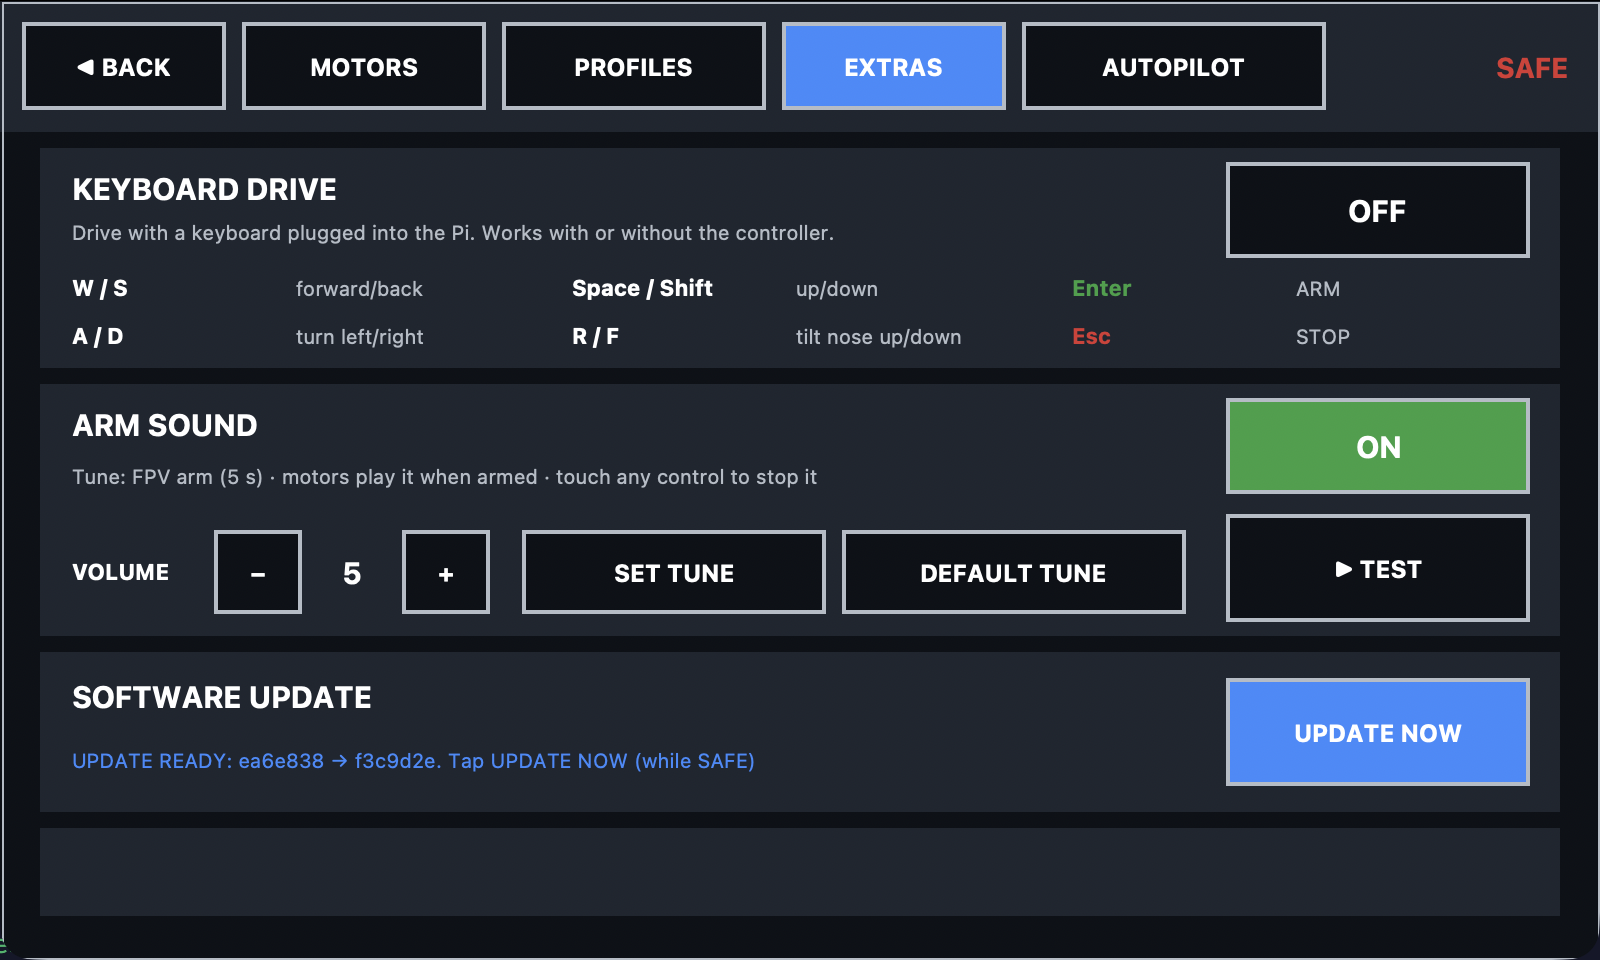
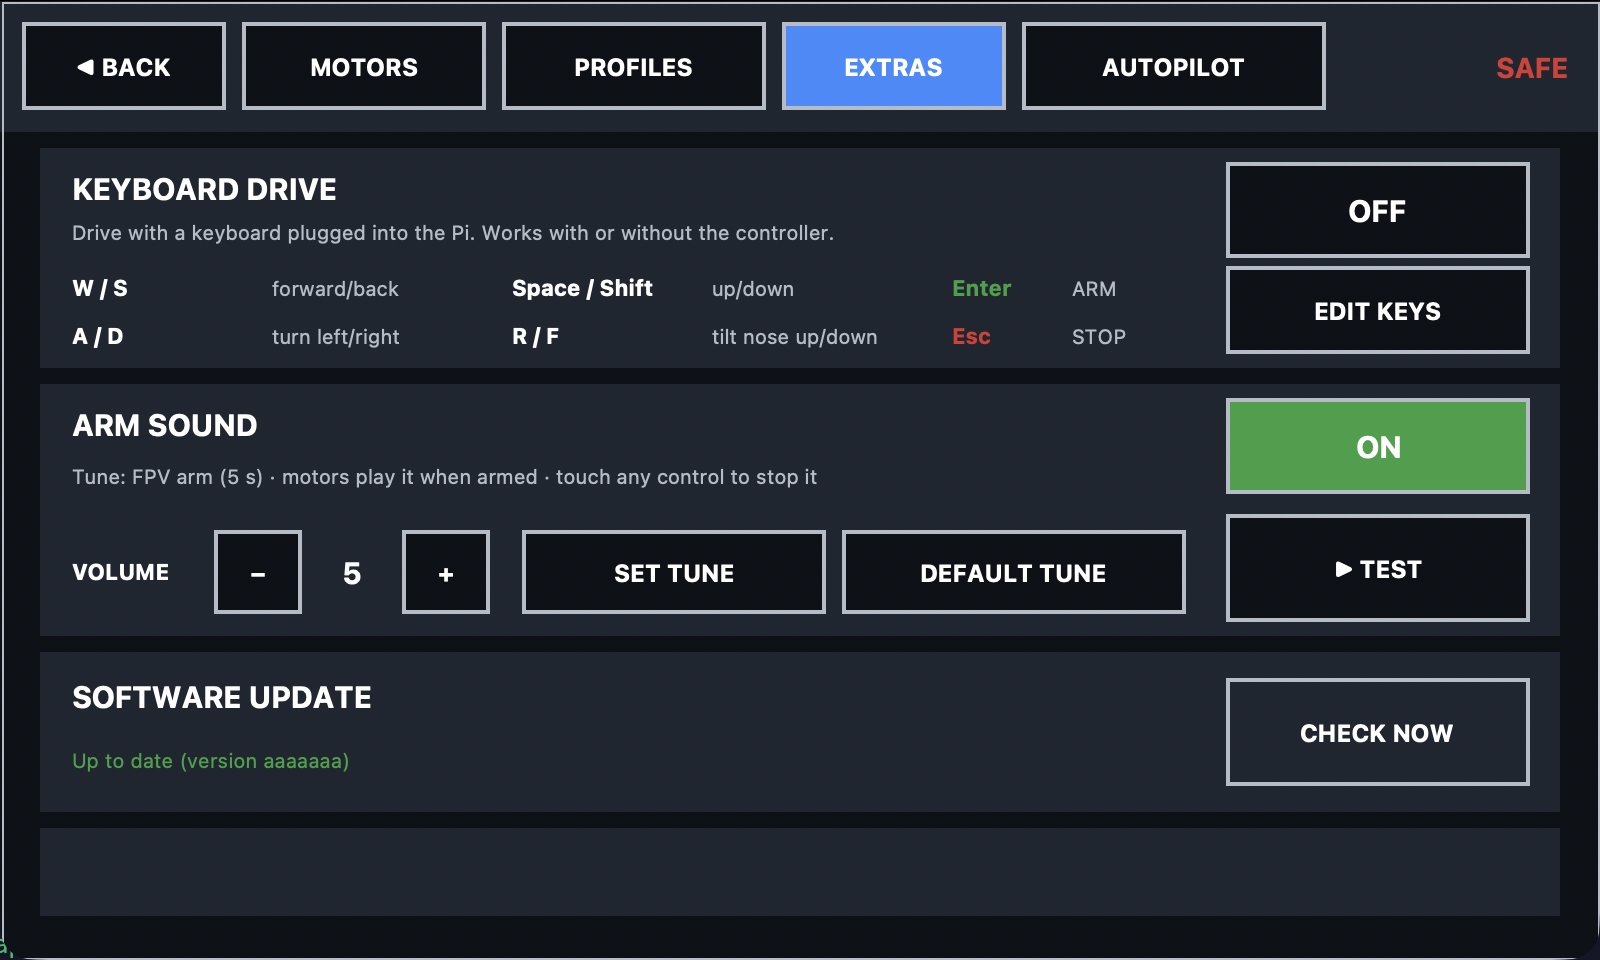
Keyboard drive profile: EDIT KEYS page
SETUP > EXTRAS > EDIT KEYS: tap an action, press a key (SAFE only); used keys
swap; WASD / ARROWS presets; speed keys. Saved in keymap.json (kept by updates).
Enter = ARM and Esc = STOP stay fixed.

diff --git a/rov_gui.py b/rov_gui.py
@@ -29,7 +29,22 @@ STATUS = "/dev/shm/rov-status.json"
 CMD = "/dev/shm/rov-cmd"
 KEYS = "/dev/shm/rov-keys.json"
 VISION = "/dev/shm/rov-vision.json"
-KB_KEYS = {"w", "a", "s", "d", "r", "f", "space", "shift"}
+KEY_NAMES = {"space": "Space", "shift": "Shift", "ctrl": "Ctrl", "alt": "Alt", "up": "↑", "down": "↓", "left": "←",
+             "right": "→", "prior": "PgUp", "next": "PgDn", "equal": "=", "minus": "−", "plus": "+", "comma": ",",
+             "period": ".", "slash": "/", "semicolon": ";", "apostrophe": "'", "bracketleft": "[",
+             "bracketright": "]", "backslash": "\\", "grave": "`", "tab": "Tab", "backspace": "Bksp", "home": "Home",
+             "end": "End", "insert": "Ins", "delete": "Del", "caps_lock": "Caps", "super": "Win"}
+
+
+def key_label(k):
+    """Tk key name -> what's printed on the key."""
+    if not k:
+        return "—"
+    return KEY_NAMES.get(k, k.upper() if len(k) == 1 else k.replace("kp_", "Num ").title())
+
+
+def keymap_path():
+    return os.path.join(core.HERE, "keymap.json")
 W, H = 800, 480
 # Safe area: this monitor crops the edges of the HDMI picture. Increase these if
 # anything is still cut off (left, top, right, bottom, in pixels). Or run with
@@ -294,6 +309,9 @@ class Dashboard:
         self.kb_on = False          # KEYBOARD DRIVE switch (comes from rov.py status)
         self.kb_down = set()
         self.kb_jobs = {}
+        self.keymap = core.load_keymap(keymap_path())     # keyboard drive profile: action -> key
+        self.kb_keys = set(core.key_axes(self.keymap))
+        self.key_listen = None                           # action waiting for "press a key" (keys page)
         self.page = "main"
         self.last_view_toggle = None
         self.cam = CameraFeed()
@@ -381,6 +399,7 @@ class Dashboard:
         self.build_extras()
         self.build_autopilot()
         self.build_mission()
+        self.build_keys()
         self.build_camera()
         self.update()
         self.refresh_video()
@@ -400,7 +419,10 @@ class Dashboard:
     @staticmethod
     def kb_name(event):
         k = event.keysym.lower()
-        return "shift" if k in ("shift_l", "shift_r") else k
+        for side in ("_l", "_r"):
+            if k.endswith(side) and k[:-2] in ("shift", "control", "alt", "super", "meta"):
+                k = k[:-2]
+        return {"control": "ctrl"}.get(k, k)
 
     def typing(self):
         try:
@@ -414,18 +436,28 @@ class Dashboard:
             self.press("stop")
             if self.typing():
                 self.root.focus_set()
+            if self.key_listen:
+                self.key_listen = None
+                self.keys_render()
+            return
+        if self.key_listen:        # keys page: this key becomes the new key for that action
+            self.key_bind(k)
             return
         if self.typing():
             return
         if k == "f11":
             self.root.attributes("-fullscreen", not self.root.attributes("-fullscreen"))
-        elif self.kb_on and k in KB_KEYS:
+        elif self.kb_on and k in self.kb_keys:
             job = self.kb_jobs.pop(k, None)
             if job:
                 self.root.after_cancel(job)
             self.kb_down.add(k)
         elif self.kb_on and k in ("return", "kp_enter"):
             send("kbd_arm")
+        elif self.kb_on and k == self.keymap.get("speed_up"):
+            self.press("speed+")
+        elif self.kb_on and k == self.keymap.get("speed_down"):
+            self.press("speed-")
         elif k == "space":
             self.press("stop")
         elif k in ("plus", "equal", "kp_add"):
@@ -563,7 +595,8 @@ class Dashboard:
             self.ed_load()
         self.root.focus_set()
         for name, canvas in (("main", self.c), ("setup", self.c2), ("camera", self.c3), ("profiles", self.c4),
-                             ("extras", self.c5), ("autopilot", self.c6), ("mission", self.c7)):
+                             ("extras", self.c5), ("autopilot", self.c6), ("mission", self.c7),
+                             ("keys", self.c8)):
             if name == page:
                 canvas.pack(expand=True)
             else:
@@ -613,13 +646,18 @@ class Dashboard:
         c.create_text(36, 94, anchor="w", text="KEYBOARD DRIVE", font=fnt(15, "bold"), fill=FG)
         c.create_text(36, 116, anchor="w", font=fnt(10), fill=DIM,
                       text="Drive with a keyboard plugged into the Pi. Works with or without the controller.")
-        for i, (keys, what) in enumerate((("W / S", "forward/back"), ("A / D", "turn left/right"),
-                                          ("Space / Shift", "up/down"), ("R / F", "tilt nose up/down"),
-                                          ("Enter", "ARM"), ("Esc", "STOP"))):
-            x, y = 36 + (i // 2) * 250, 144 + (i % 2) * 24
-            c.create_text(x, y, anchor="w", text=keys, font=fnt(11, "bold"),
-                          fill=RED if keys == "Esc" else GREEN if keys == "Enter" else FG)
-            c.create_text(x + 112, y, anchor="w", text=what, font=fnt(10), fill=DIM)
+        self.kb_legend = []
+        for i, (pair, what) in enumerate(((("forward", "back"), "forward/back"), (("left", "right"), "turn left/right"),
+                                          (("up", "down"), "up/down"), (("tilt_up", "tilt_down"), "tilt nose up/down"),
+                                          (None, "ARM"), (None, "STOP"))):
+            x, y = 36 + (i // 2) * 220, 144 + (i % 2) * 24
+            fixed = {"ARM": "Enter", "STOP": "Esc"}.get(what)
+            kt = c.create_text(x, y, anchor="w", text=fixed or "", font=fnt(11, "bold"),
+                               fill=RED if fixed == "Esc" else GREEN if fixed == "Enter" else FG)
+            c.create_text(x + (60 if fixed else 100), y, anchor="w", text=what, font=fnt(10), fill=DIM)
+            if pair:
+                self.kb_legend.append((kt, pair))
+        self.small_button(c, 614, 134, 764, 176, "EDIT KEYS", self.show_keys, tag="ex_keys")
         self.kb_toggle = self.toggle(c, 614, 82, "ex_kb", lambda: send(f"keyboard:{0 if self.kb_on else 1}"))
 
         c.create_rectangle(20, 192, 780, 318, fill=PANEL, width=0)
@@ -736,6 +774,9 @@ class Dashboard:
             c.itemconfig(rect, fill=GREEN if on else BG)
             c.itemconfig(txt, text="ON" if on else "OFF")
         c.itemconfig(self.ex_vol, text=str(self.snd_vol))
+        for kt, (a1, a2) in self.kb_legend:
+            c.itemconfig(kt, text=f"{key_label(self.keymap.get(a1))} / {key_label(self.keymap.get(a2))}")
+        self.update_keys(st)
         self.button_text(c, "ex_test", "■ STOP SOUND" if self.snd_playing else "▶ TEST")
         name = st.get("tune_name")
         c.itemconfig(self.ex_tune, text=(f"Tune: {name} ({st.get('tune_secs', 0):.0f} s"
@@ -981,6 +1022,115 @@ class Dashboard:
     # ------------------------------------------------------------ autopilot page (mouse only)
     def show_autopilot(self):
         self.show_page("autopilot")
+
+    # ------------------------------------------------------------ keyboard keys page (keyboard drive profile)
+    def show_keys(self):
+        self.key_listen = None
+        self.keys_render()
+        self.show_page("keys")
+
+    def build_keys(self):
+        c = self.c8 = tk.Canvas(self.root, width=W, height=H, bg=BG, highlightthickness=0)
+        c.create_rectangle(0, 0, W, 66, fill=PANEL, width=0)
+        self.small_button(c, 12, 12, 112, 54, "◀ BACK", self.show_extras, tag="keys_back")
+        c.create_text(130, 33, anchor="w", text="KEYBOARD KEYS", font=fnt(17, "bold"), fill=FG)
+        self.keys_state = c.create_text(785, 33, anchor="e", text="", font=fnt(14, "bold"), fill=FG)
+        c.create_text(24, 86, anchor="w", font=fnt(11), fill=DIM,
+                      text="Tap a box, then press the key you want. Enter = ARM and Esc = STOP are fixed.")
+        self.key_boxes = {}
+        for i, (a, label, *_r) in enumerate(core.KEY_ACTIONS):
+            x0, y = 20 + (i % 2) * 390, 102 + (i // 2) * 54
+            c.create_rectangle(x0, y, x0 + 370, y + 46, fill=PANEL, width=0)
+            c.create_text(x0 + 16, y + 23, anchor="w", text=label, font=fnt(13, "bold"), fill=FG)
+            tag = f"key_{a}"
+            rect = c.create_rectangle(x0 + 196, y + 6, x0 + 360, y + 40, fill=BG, outline=DIM, width=2, tags=tag)
+            txt = c.create_text(x0 + 278, y + 23, text="", font=fnt(13, "bold"), fill=FG, tags=tag)
+            c.tag_bind(tag, "<Button-1>", lambda e, a=a: self.key_click(a))
+            self.key_boxes[a] = (rect, txt)
+        c.create_text(24, 398, anchor="w", text="PRESETS", font=fnt(11, "bold"), fill=DIM)
+        for x0, name in ((110, "WASD"), (250, "ARROWS")):
+            self.small_button(c, x0, 376, x0 + 130, 420, name, lambda n=name: self.key_preset(n), tag=f"kp_{name}")
+        c.create_rectangle(20, 428, 780, 470, fill=PANEL, width=0)
+        self.keys_msg = c.create_text(34, 449, anchor="w", text="", font=fnt(12), fill=FG)
+        c.create_rectangle(1, 1, W - 1, H - 1, outline=DIM, width=1)
+        c.scale("all", 0, 0, SX, SY)
+        c.move("all", MARGINS[0], MARGINS[1])
+        self.keys_note, self.keys_note_until = "", 0.0
+
+    def keys_say(self, text, secs=5):
+        self.keys_note, self.keys_note_until = text, time.monotonic() + secs
+
+    def keys_render(self):
+        if not hasattr(self, "key_boxes"):
+            return
+        for a, (rect, txt) in self.key_boxes.items():
+            listening = a == self.key_listen
+            self.c8.itemconfig(rect, fill=AMBER if listening else BG)
+            self.c8.itemconfig(txt, text="PRESS A KEY…" if listening else key_label(self.keymap.get(a)),
+                               fill=BG if listening else FG)
+
+    def key_click(self, action):
+        if self.armed:
+            self.keys_say("Press STOP first: keys can only be changed while SAFE")
+            return
+        self.key_listen = None if self.key_listen == action else action
+        self.root.focus_set()
+        self.keys_render()
+        if self.key_listen:
+            self.keys_say("Press the new key (Esc = cancel)", 30)
+
+    def key_bind(self, k):
+        action, self.key_listen = self.key_listen, None
+        if k in core.FIXED_KEYS:
+            self.keys_say(f"{key_label(k) if k != 'f11' else 'F11'} is fixed (ARM / STOP / full screen): pick another key")
+        else:
+            old = self.keymap.get(action)
+            for other, key in self.keymap.items():      # key already used: the two actions swap keys
+                if key == k and other != action:
+                    self.keymap[other] = old
+                    self.keys_say(f"{key_label(k)} was used for something else: swapped")
+                    break
+            else:
+                self.keys_say(f"{dict((x[0], x[1]) for x in core.KEY_ACTIONS)[action]} = {key_label(k)}  (saved)")
+            self.keymap[action] = k
+            self.keys_save()
+        self.keys_render()
+
+    def key_preset(self, name):
+        if self.armed:
+            self.keys_say("Press STOP first: keys can only be changed while SAFE")
+            return
+        self.key_listen = None
+        self.keymap = dict(core.KEY_PRESETS[name])
+        self.keys_save()
+        self.keys_render()
+        self.keys_say(f"{name} keys (saved)")
+
+    def keys_save(self):
+        self.kb_release_all()
+        self.kb_keys = set(core.key_axes(self.keymap))
+        try:
+            with open(keymap_path() + ".tmp", "w") as f:
+                json.dump(self.keymap, f, indent=1)
+            os.replace(keymap_path() + ".tmp", keymap_path())
+        except OSError as ex:
+            self.keys_say(f"Could not save: {ex.strerror or ex}")
+            return
+        send("reload_keys")
+
+    def update_keys(self, st):
+        c = self.c8
+        if st is None:
+            c.itemconfig(self.keys_state, text="OFFLINE", fill=AMBER)
+        else:
+            c.itemconfig(self.keys_state, text="ARMED" if st["armed"] else "SAFE",
+                         fill=GREEN if st["armed"] else RED)
+        if self.key_listen and self.armed:
+            self.key_listen = None
+            self.keys_render()
+        note = self.keys_note if time.monotonic() < self.keys_note_until else ""
+        c.itemconfig(self.keys_msg, text=short(note or ("Keyboard drive is OFF: switch it on in SETUP › EXTRAS"
+                                                        if not self.kb_on else "")))
 
     def show_mission(self):
         self.mi_load()

diff --git a/rov.py b/rov.py
@@ -18,6 +18,7 @@ Controls (default):
 
 Keyboard drive (switch it on on the case screen: SETUP > EXTRAS):
   W/S forward/back, A/D turn, Space up, Shift down, R/F tilt, Enter ARM, Esc STOP.
+  Which key does what can be changed: SETUP > EXTRAS > EDIT KEYS (saved in keymap.json).
   The dashboard sends the keys; if it stops sending for 0.5 s the keys count as released
   (and with no controller connected the motors disarm).
 
@@ -57,9 +58,48 @@ STATUS_PATH = "/dev/shm/rov-status.json"   # read by rov_gui.py
 CMD_PATH = "/dev/shm/rov-cmd"              # written by rov_gui.py
 KEYS_PATH = "/dev/shm/rov-keys.json"       # keyboard drive: keys held down, written by rov_gui.py
 
-# Keyboard drive: key -> (motion axis, amount)
-KEY_AXES = {"w": ("surge", 1.0), "s": ("surge", -1.0), "d": ("yaw", 1.0), "a": ("yaw", -1.0),
-            "space": ("heave", 1.0), "shift": ("heave", -1.0), "r": ("pitch", 0.6), "f": ("pitch", -0.6)}
+# Keyboard drive profile: which key does what (SETUP > EXTRAS > EDIT KEYS, saved in keymap.json).
+# action, label, motion axis, amount (speed_up / speed_down are handled by the dashboard)
+KEY_ACTIONS = [("forward", "Forward", "surge", 1.0), ("back", "Back", "surge", -1.0),
+               ("left", "Turn left", "yaw", -1.0), ("right", "Turn right", "yaw", 1.0),
+               ("up", "Up", "heave", 1.0), ("down", "Down", "heave", -1.0),
+               ("tilt_up", "Tilt nose up", "pitch", 0.6), ("tilt_down", "Tilt nose down", "pitch", -0.6),
+               ("speed_up", "Speed +", None, 0), ("speed_down", "Speed −", None, 0)]
+KEY_PRESETS = {
+    "WASD": {"forward": "w", "back": "s", "left": "a", "right": "d", "up": "space", "down": "shift",
+             "tilt_up": "r", "tilt_down": "f", "speed_up": "e", "speed_down": "q"},
+    "ARROWS": {"forward": "up", "back": "down", "left": "left", "right": "right", "up": "space", "down": "ctrl",
+               "tilt_up": "prior", "tilt_down": "next", "speed_up": "equal", "speed_down": "minus"},
+}
+FIXED_KEYS = {"return", "kp_enter", "escape", "f11"}     # ARM, STOP, full screen: can't be re-used
+
+
+def load_keymap(path):
+    """keymap.json -> {action: key} (WASD for anything missing or broken)."""
+    km = dict(KEY_PRESETS["WASD"])
+    try:
+        with open(path) as f:
+            data = json.load(f)
+        if isinstance(data, dict):
+            for a, *_ in KEY_ACTIONS:
+                k = data.get(a)
+                if isinstance(k, str) and k and k not in FIXED_KEYS:
+                    km[a] = k.lower()
+    except (OSError, ValueError):
+        pass
+    return km
+
+
+def key_axes(keymap):
+    """{action: key} -> {key: (axis, amount)} for the driving keys."""
+    out = {}
+    for a, _, axis, amount in KEY_ACTIONS:
+        if axis and keymap.get(a):
+            out[keymap[a]] = (axis, amount)
+    return out
+
+
+KEY_AXES = key_axes(KEY_PRESETS["WASD"])
 
 VISION_PATH = "/dev/shm/rov-vision.json"  # camera autopilot results, written by rov_gui.py
 
@@ -750,6 +790,10 @@ class ROV:
         self.kbd_enabled = bool(c.get("keyboard_drive", False))
         self.kbd_keys = set()
         self.kbd_live = False
+        self.keymap_path = os.path.join(os.path.dirname(os.path.abspath(config_path or
+                                                                        os.path.join(HERE, "config.toml"))),
+                                        "keymap.json")
+        self.key_axes = key_axes(load_keymap(self.keymap_path))
         self.sound_on = bool(c.get("arm_sound", True))
         self.sound_volume = max(1, min(15, int(c.get("sound_volume", 5))))
         self.tune = None
@@ -965,7 +1009,7 @@ class ROV:
                 cmd[axis] += v * w
         if self.kbd_live:
             for k in self.kbd_keys:
-                axis, v = KEY_AXES[k]
+                axis, v = self.key_axes[k]
                 cmd[axis] += v
         return {ax: self.inv[ax] * max(-1.0, min(1.0, cmd[ax])) for ax in AXES}
 
@@ -984,7 +1028,7 @@ class ROV:
         if abs(time.time() - float(st.get("ts", 0))) > self.hb_timeout:
             return
         self.kbd_live = True
-        self.kbd_keys = {k for k in st.get("keys", []) if k in KEY_AXES}
+        self.kbd_keys = {k for k in st.get("keys", []) if k in self.key_axes}
 
     def set_keyboard(self, on):
         if self.armed:
@@ -1217,6 +1261,9 @@ class ROV:
         elif cmd == "kbd_arm":
             self.read_keys()
             self.arm(source="keyboard")
+        elif cmd == "reload_keys":
+            self.key_axes = key_axes(load_keymap(self.keymap_path))
+            self.say("Keyboard keys updated")
         elif cmd.startswith("keyboard:"):
             self.set_keyboard(cmd.endswith(":1"))
         elif cmd.startswith("sound:"):

diff --git a/updater.py b/updater.py
@@ -21,7 +21,7 @@ BRANCH = "main"
 HERE = os.path.dirname(os.path.abspath(__file__))
 VERSION_FILE = os.path.join(HERE, "VERSION")
 # your settings: never overwritten by an update
-KEEP = {"config.toml", "profiles.json", "camera.json", "autopilot.json", "mission.json", "tune.txt",
+KEEP = {"config.toml", "profiles.json", "camera.json", "autopilot.json", "mission.json", "tune.txt", "keymap.json",
         "VERSION", ".mega-firmware"}
 CHECK_EVERY = 30 * 60
 UA = {"User-Agent": "rov-updater"}

diff --git a/README.md b/README.md
@@ -34,6 +34,8 @@ The dashboard (800x480), captured running on a computer with simulated ROV data;
 | ![Autopilot OK](docs/screenshots/status-good.png) | ![Take control warning](docs/screenshots/alert.png) |
 | Line following (camera view) | PICK: click an object to follow its colour |
 | ![Line following](docs/screenshots/camera-line.png) | ![Pick a colour](docs/screenshots/camera-pick.png) |
+| **EDIT KEYS** (keyboard drive profile) | |
+| ![Keyboard keys page](docs/screenshots/keys.png) | |
 | SET TUNE: paste a ringtone | Camera full screen |
 | ![Set tune](docs/screenshots/extras-tune.png) | ![Camera full screen](docs/screenshots/camera-full.png) |
 
@@ -140,7 +142,11 @@ Plug a keyboard into the Pi and switch **KEYBOARD DRIVE** on in **SETUP › EXTR
 | A / D | turn left / right |
 | Space / Shift | up / down |
 | R / F | tilt nose up / down |
-| + / − | speed up / down |
+| E / Q (or + / −) | speed up / down |
+
+**Change the keys:** SETUP › EXTRAS › **EDIT KEYS**. Tap an action, press the key you want (only while SAFE). A key
+that's already used swaps with the other action. **WASD** and **ARROWS** (arrow keys, Space/Ctrl up/down, PgUp/PgDn
+tilt) are ready-made presets. Saved in `keymap.json` (kept by updates). Enter = ARM and Esc = STOP can't be changed.
 
 The dashboard sends the held keys about 20 times a second. If that stops for 0.5 s (dashboard closed or frozen), the keys
 count as released, and if no controller is connected the motors disarm.
